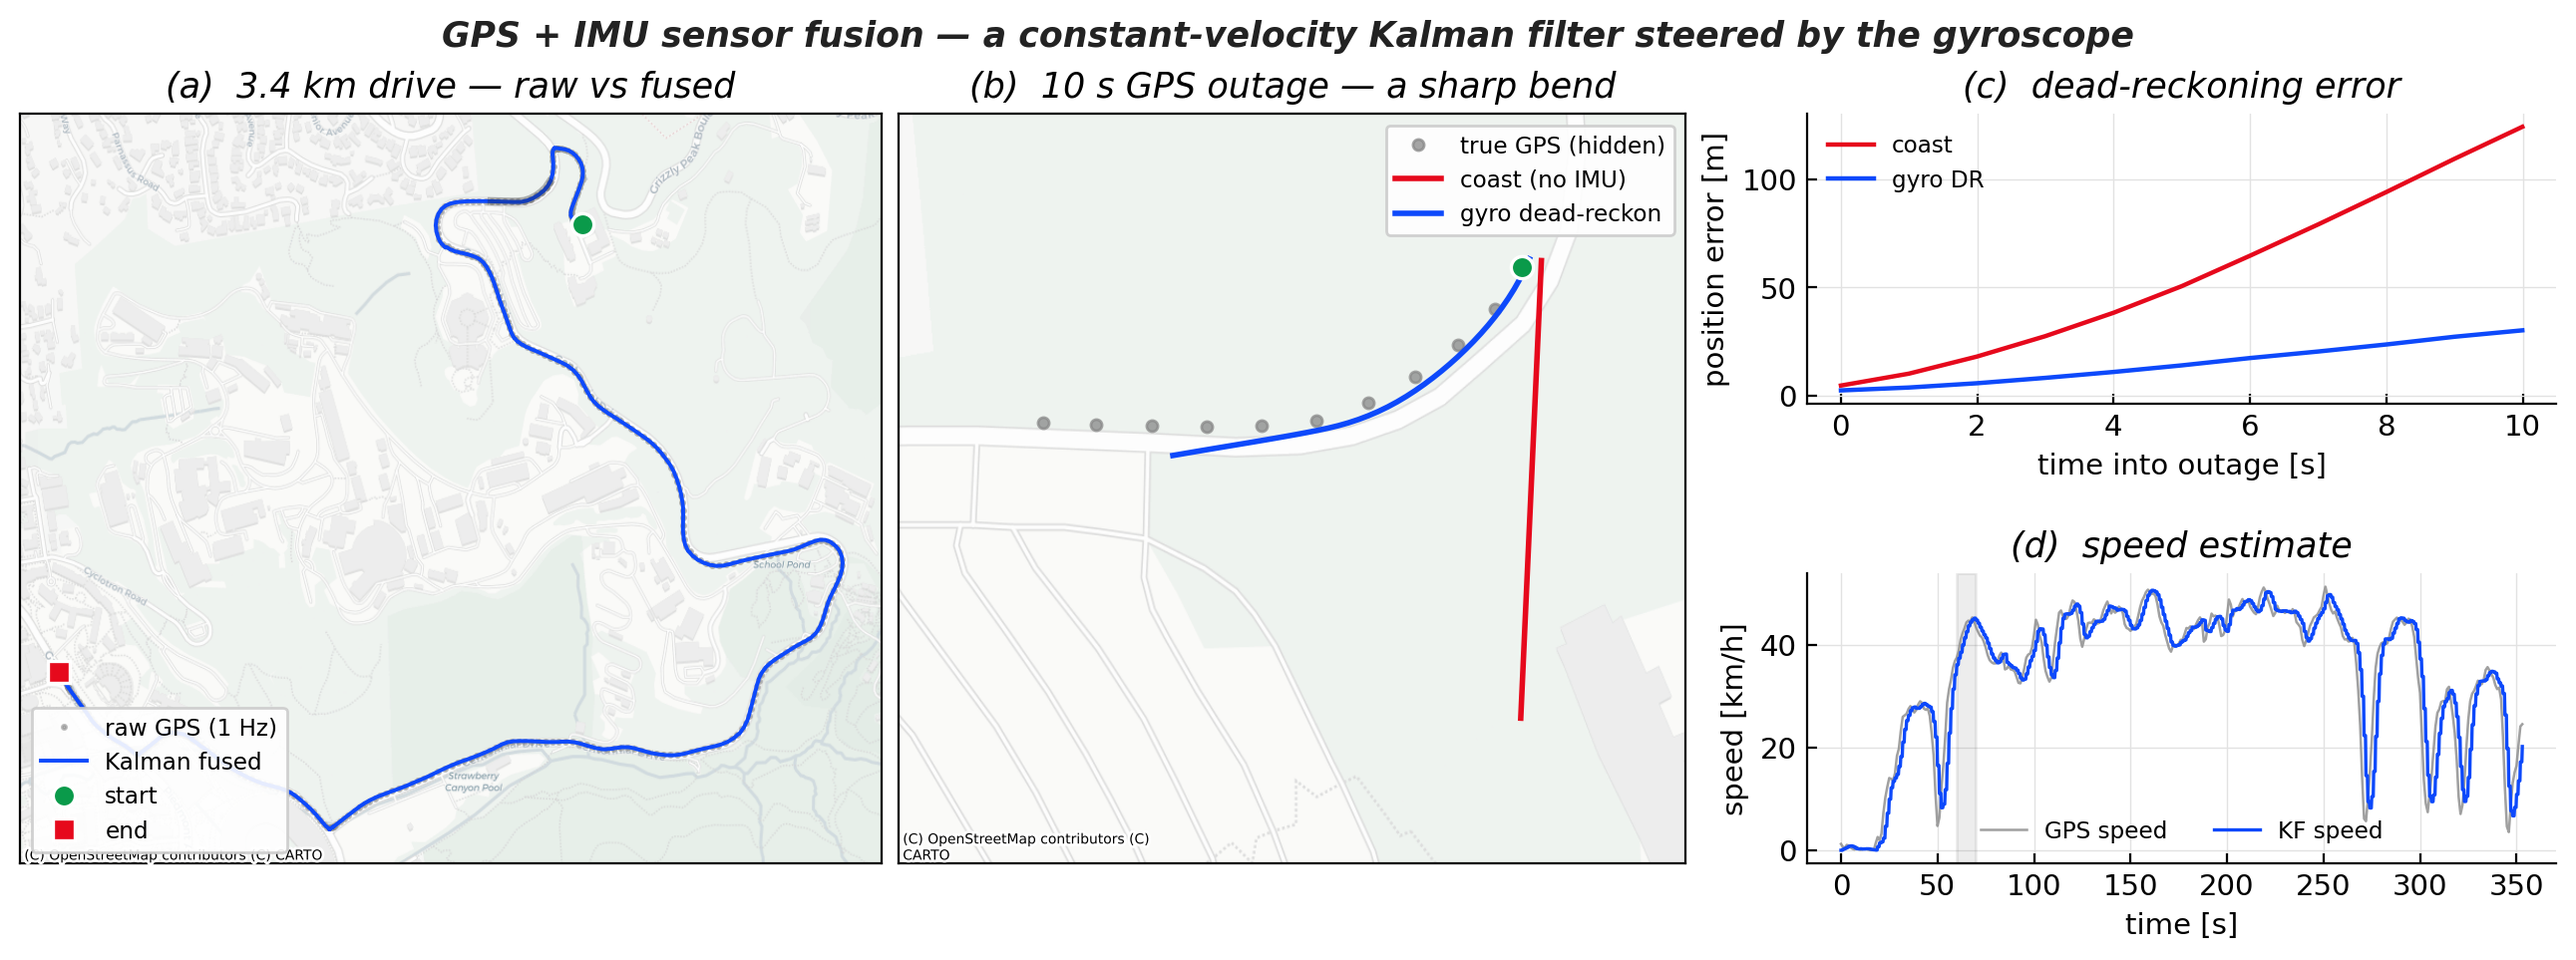
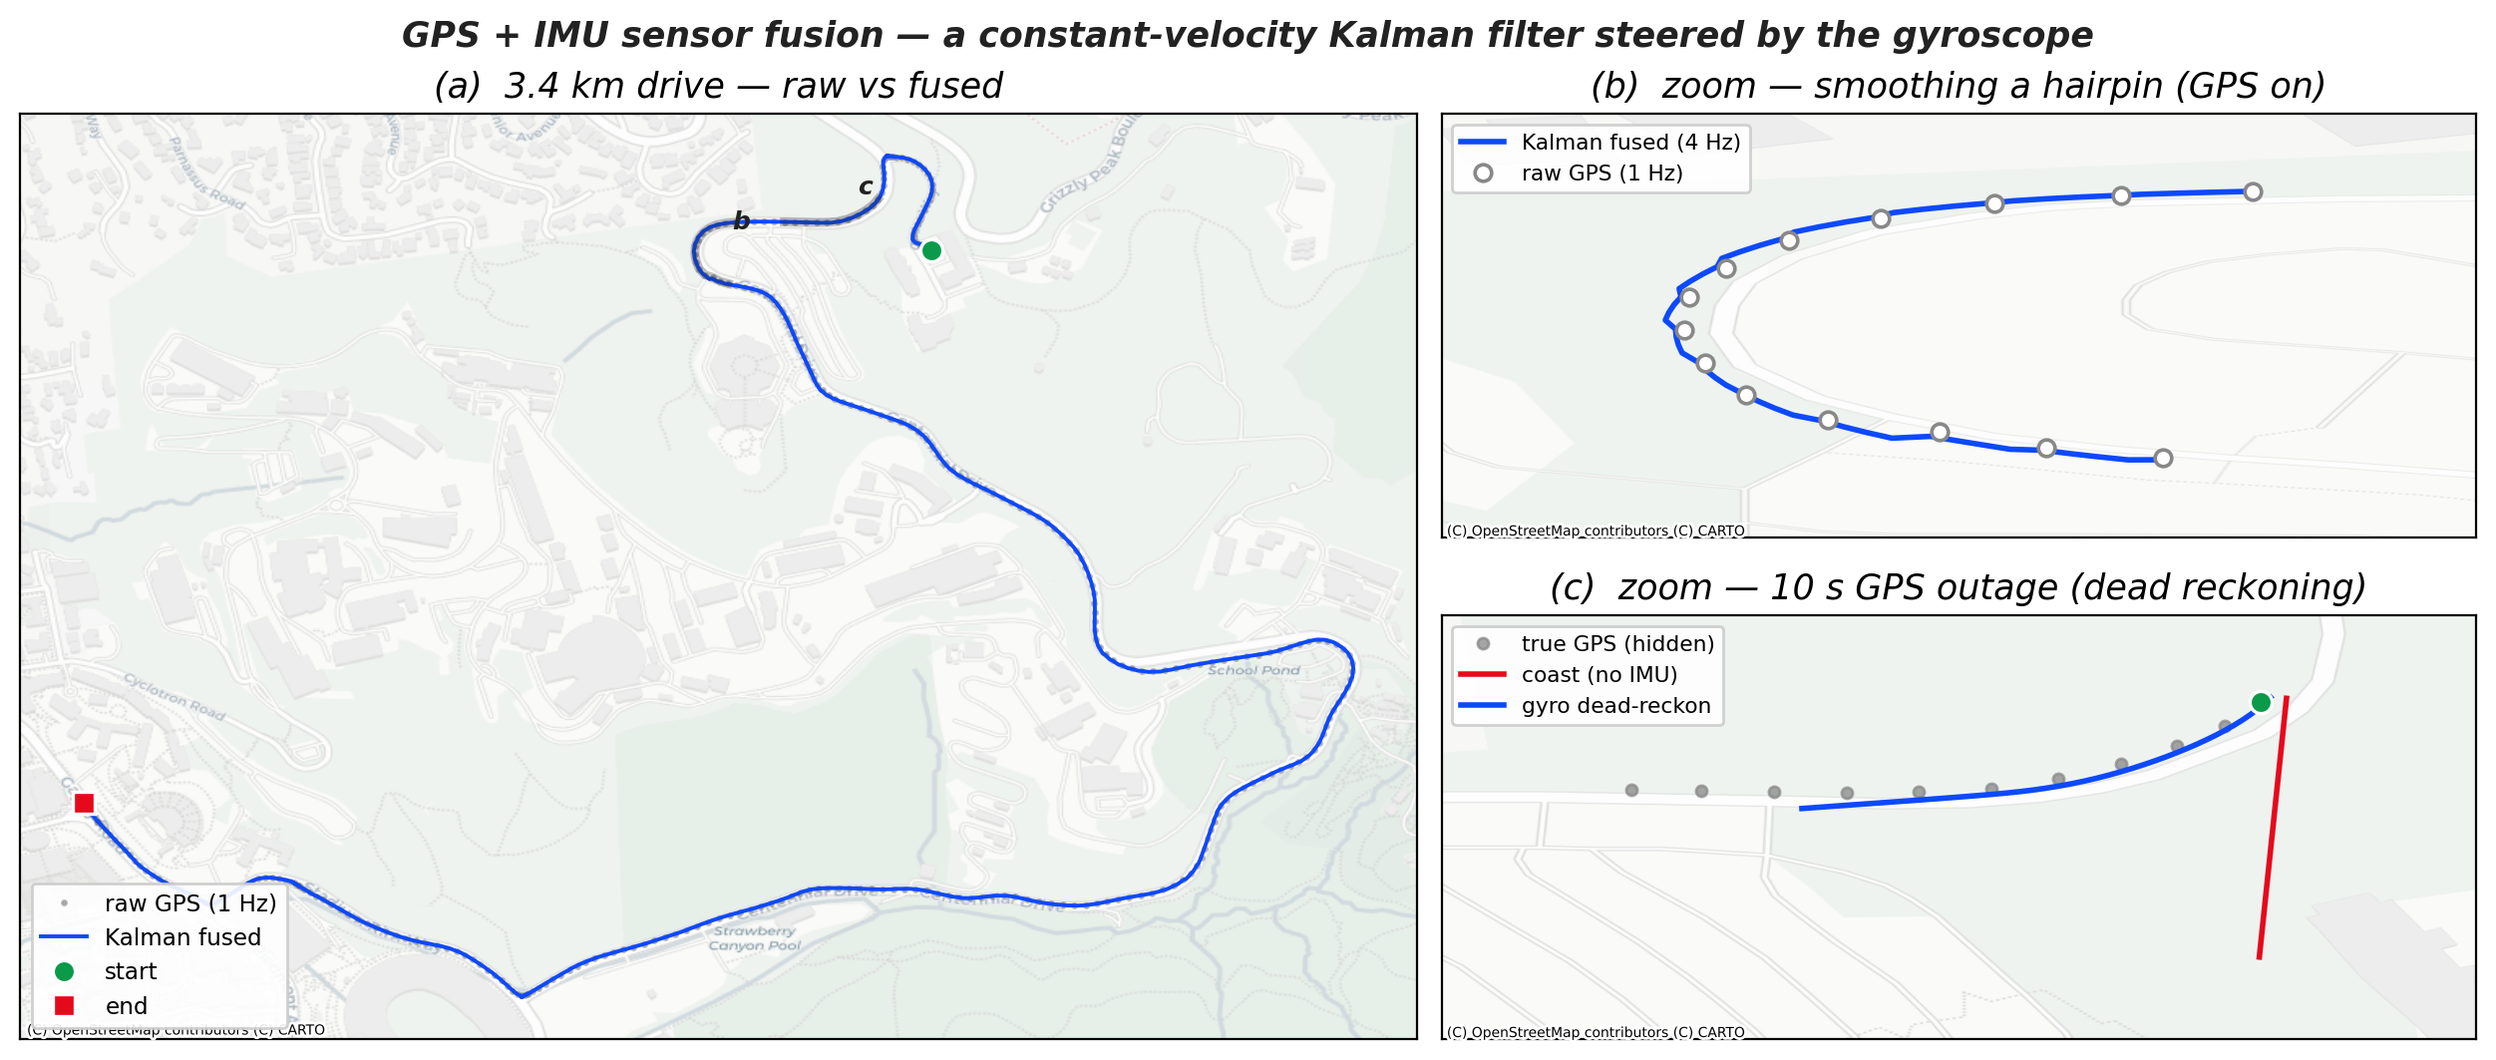
gallery/kalman: swap error/speed plots for two street-level zooms
Replaces the dead-reckoning-error and speed line plots with two zoomed
map panels: (b) a hairpin with GPS on, showing the 1 Hz fixes smoothed and
densified into a 4 Hz track, and (c) the 10 s outage dead-reckoning. Also
clarifies that "raw GPS" is the receiver's own GPS-provider solution (not
Android sensor-fusion, not raw pseudoranges) and that the ~0.5 m figure is
filter-vs-input, not GPS accuracy.

Claude-Session: https://claude.ai/code/session_013g6Jis2ksDyqM4YC8tx1nv

diff --git a/docs/gallery/kalman_gps_imu.html b/docs/gallery/kalman_gps_imu.html
@@ -536,7 +536,7 @@ window.Quarto = {
 <h2 class="anchored" data-anchor-id="background">Background</h2>
 <p>Two sensors, two complementary weaknesses. <strong>GPS</strong> gives an <em>absolute</em> position but it is noisy (metres) and it drops out under bridges, in tunnels, and beside tall buildings. An <strong>IMU</strong> — here just the phone’s <strong>gyroscope</strong> — is quiet and fast (100 Hz) and never loses signal, but it measures only <em>rates</em>: integrate it and the answer drifts without bound.</p>
 <p>A <strong>Kalman filter</strong> is the standard way to get the best of both. It carries a running estimate of the vehicle state and its uncertainty, <em>predicts</em> forward with the gyro between GPS fixes, and <em>corrects</em> toward each GPS fix in proportion to how much it trusts the fix versus the prediction. When GPS is healthy the track is simply smoothed; when GPS vanishes the filter coasts on the gyro-steered model — and that is where the IMU earns its keep.</p>
-<p>The data is a real <strong>3.4 km drive through the Berkeley hills</strong>, logged with Google’s <em>GnssLogger</em> app: 1 Hz GPS fixes (3.8 m accuracy) and a 100 Hz gyroscope, phone lying flat on the dash.</p>
+<p>The data is a real <strong>3.4 km drive through the Berkeley hills</strong>, logged with Google’s <em>GnssLogger</em> app: 1 Hz GPS fixes and a 100 Hz gyroscope, phone lying flat on the dash. A note on what “raw GPS” means here — these are the Android <strong><code>GPS</code> provider</strong> fixes, i.e.&nbsp;the GNSS receiver’s own position solution. They are <em>not</em> Android’s <code>fused</code> provider (no Wi-Fi/cell/sensor blending), but they are also not the truly raw pseudoranges: every consumer GNSS chip internally smooths its solution before reporting it. With 13–18 satellites in open sky the receiver’s fixes are already clean, which is exactly why the filter below adds little when GPS is present and everything when it drops out.</p>
 </section>
 <section id="key-idea" class="level2">
 <h2 class="anchored" data-anchor-id="key-idea">Key idea</h2>
@@ -602,11 +602,11 @@ F_k = \begin{bmatrix} 1 &amp; 0 &amp; \Delta t &amp; 0 \\ 0 &amp; 1 &amp; 0 &amp
 <div class="quarto-figure quarto-figure-center">
 <figure class="figure">
 <p><img src="../Figure/figure_kalman_gps_imu.png" class="img-fluid figure-img"></p>
-<figcaption>GPS + IMU fusion on a 3.4 km Berkeley-hills drive. (a) The Kalman-fused track (blue) laid over the raw 1 Hz GPS (grey) on the real street map. (b) A simulated 10 s GPS outage through a sharp bend: with the gyroscope the filter dead-reckons around the corner and stays on the road (blue), while a plain constant-velocity coast (red) drives straight off the block. (c) Position error during the outage — the gyro holds ~30 m while the coast blows out past 120 m. (d) The filter’s speed estimate tracks the GPS-reported speed throughout.</figcaption>
+<figcaption>GPS + IMU fusion on a 3.4 km Berkeley-hills drive. (a) The Kalman-fused track (blue) laid over the raw 1 Hz GPS (grey) on the real street map; boxes <em>b</em> and <em>c</em> mark the two zooms. (b) Street-level zoom on a hairpin with GPS present: the sparse 1 Hz fixes (open circles) become a smooth, continuous 4 Hz track that rounds the corner between samples. (c) A simulated 10 s GPS outage through a sharp bend: with the gyroscope the filter dead-reckons around the corner and stays on the road (blue), while a plain constant-velocity coast (red) drives straight off the block.</figcaption>
 </figure>
 </div>
 </div>
-<p>The four panels tell the whole story. With GPS present (a, d) the filter mostly <strong>smooths</strong> the 1 Hz jitter and hands back a clean position <em>and velocity</em>. The value of the IMU only becomes visible when GPS is taken away (b, c): withholding every fix for 10 s across a sharp bend, the gyro-steered filter rounds the corner and finishes <strong>≈ 30 m</strong> from truth, whereas the identical filter <em>without</em> the gyro coasts straight ahead and ends <strong>≈ 124 m</strong> off — out in the next block. That four-fold gap is exactly the tunnel/underpass problem car navigation solves this way.</p>
+<p>The zooms show the two kinds of improvement, and how different their sizes are. When <strong>GPS is healthy</strong> (b) the receiver’s fixes are already clean, so the filter’s contribution is mostly <em>interpolation and smoothing</em>: it turns one-per-second dots into a continuous 4 Hz track and rounds each corner, while barely relocating the points (our fused track sits within about half a metre of the input — a measure of how little the filter needs to move them, not of GPS accuracy). The dramatic gain comes only when <strong>GPS is taken away</strong> (c): withholding every fix for 10 s across a sharp bend, the gyro-steered filter rounds the corner and finishes <strong>≈ 30 m</strong> from truth, whereas the identical filter <em>without</em> the gyro coasts straight ahead and ends <strong>≈ 124 m</strong> off — out in the next block. That four-fold gap is exactly the tunnel/underpass problem car navigation solves this way. (The filter also outputs a velocity estimate at every step, used implicitly by both the smoothing and the dead reckoning.)</p>
 <p>A few honest caveats. The gyroscope’s vertical axis was calibrated once against the GPS course-over-ground (the phone lay flat, so its yaw rate ≈ the vehicle’s), and only heading <em>changes</em> are integrated, so the calibration is a single scale-and-bias fit rather than a magnetometer heading. The outage is <em>simulated</em> by hiding otherwise-good fixes, which lets us score the dead-reckoning against known truth. And dead reckoning is a loan, not a gift: the error in (c) keeps growing, so the trick buys tens of seconds of graceful coasting — enough to cross a bridge — not minutes.</p>
 <hr>
 <p><em>See <a href="../chap6.html">Chapter 6</a> for filtering fundamentals. The map tiles are © OpenStreetMap contributors, © CARTO; the processed drive is shipped as <a href="https://github.com/jiutongzhao/Time-Series-Data-Analysis/blob/main/Data/kalman_gps_imu.npz"><code>Data/kalman_gps_imu.npz</code></a>.</em></p>
